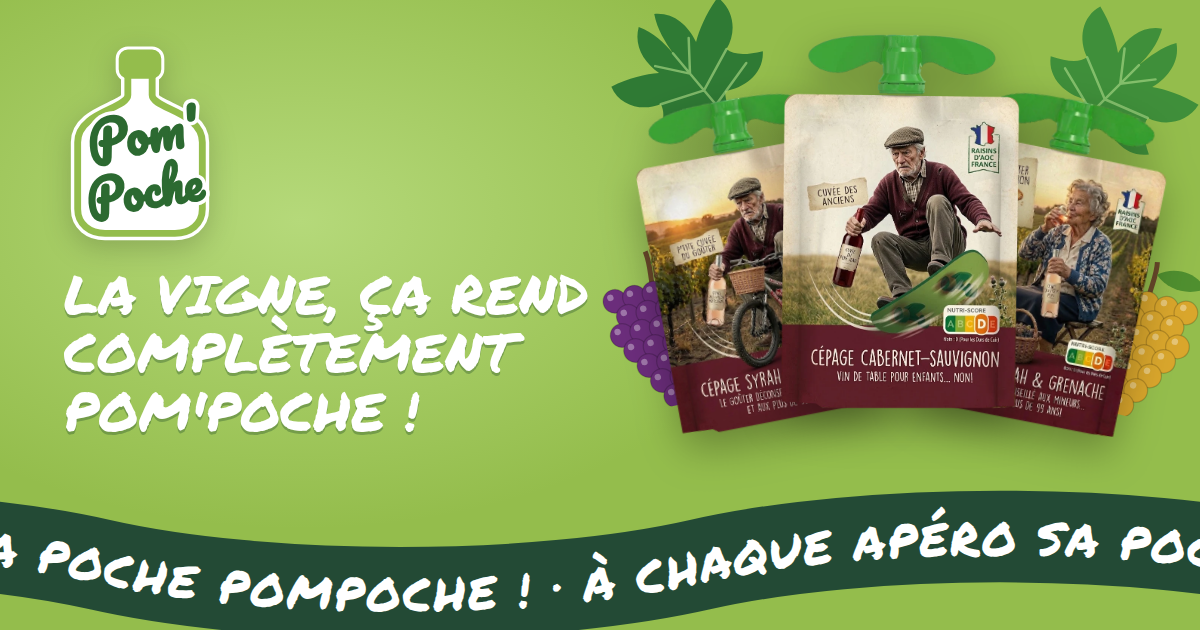
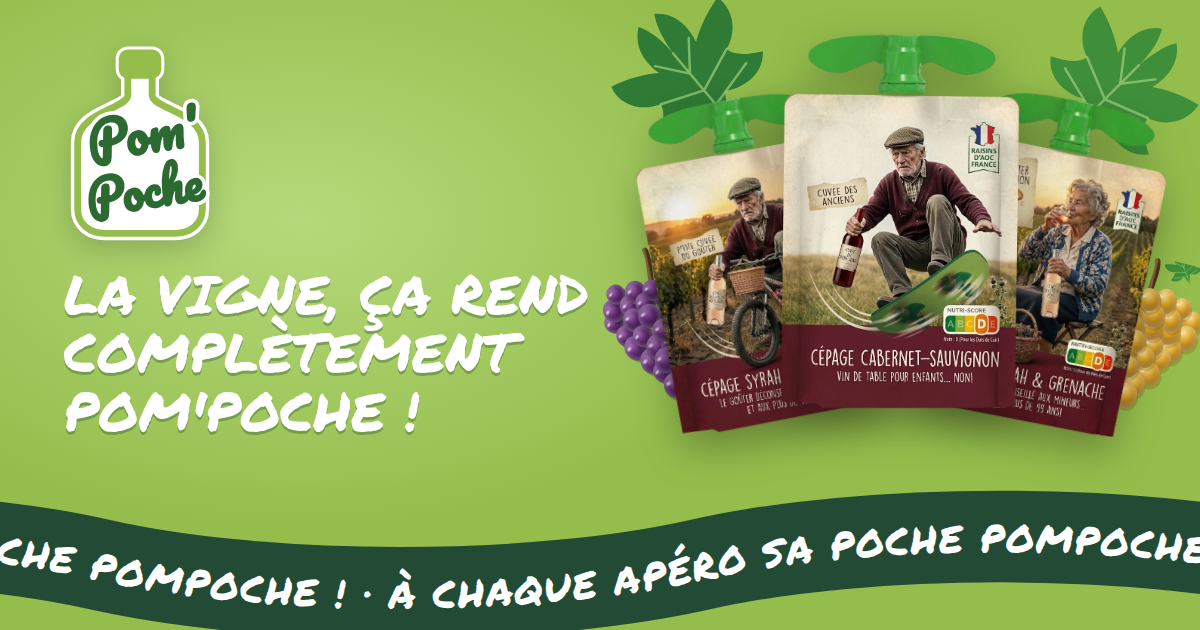
raisins

Changed region(s): [[0.0, 0.8143, 1.0, 0.9952], [0.925, 0.3921, 1.0, 0.6635], [0.4933, 0.4222, 0.5858, 0.6635]]

diff --git a/src/components/GrapeBunch.vue b/src/components/GrapeBunch.vue
@@ -1,30 +1,62 @@
 <template>
   <svg viewBox="0 0 100 130" aria-hidden="true">
-    <path d="M50 4 C52 14 50 22 50 32" stroke="#6b4a2b" stroke-width="4" fill="none" />
-    <path d="M52 14 C66 2 86 6 92 16 C80 24 64 24 52 14 Z" fill="#4f8f2f" />
-    <g :fill="fill" stroke="rgb(0 0 0 / 0.18)" stroke-width="1">
-      <circle v-for="(g, i) in GRAPES" :key="i" :cx="g.x" :cy="g.y" r="9.5" />
+    <defs>
+      <radialGradient :id="`${id}-body`" cx="0.36" cy="0.3" r="0.78">
+        <stop offset="0" :stop-color="tones.light" />
+        <stop offset="0.45" :stop-color="tones.base" />
+        <stop offset="1" :stop-color="tones.dark" />
+      </radialGradient>
+      <radialGradient :id="`${id}-shine`">
+        <stop offset="0" stop-color="#fff" stop-opacity="0.85" />
+        <stop offset="1" stop-color="#fff" stop-opacity="0" />
+      </radialGradient>
+      <radialGradient :id="`${id}-bloom`">
+        <stop offset="0.55" stop-color="#e8eef5" stop-opacity="0" />
+        <stop offset="1" stop-color="#e8eef5" stop-opacity="0.28" />
+      </radialGradient>
+      <linearGradient :id="`${id}-stem`" x1="0" x2="1">
+        <stop offset="0" stop-color="#8a6a3e" />
+        <stop offset="1" stop-color="#4f3519" />
+      </linearGradient>
+    </defs>
+    <g fill="none" :stroke="`url(#${id}-stem)`" stroke-linecap="round">
+      <path d="M50 3 C53 12 49 20 50 34" stroke-width="4.5" />
+      <path d="M50 30 C42 34 30 36 22 40 M50 30 C58 34 70 36 79 40" stroke-width="2.5" />
     </g>
-    <g fill="#fff" opacity="0.35">
-      <circle v-for="(g, i) in GRAPES" :key="i" :cx="g.x - 3" :cy="g.y - 3.5" r="2.6" />
+    <g transform="translate(51 0) rotate(-35) scale(0.3)">
+      <VineLeaf width="100" height="100" />
+    </g>
+    <g v-for="(berry, i) in berries" :key="i" :transform="berry.transform">
+      <ellipse cx="1.6" cy="2.6" :rx="berry.rx" :ry="berry.ry" :fill="tones.dark" opacity="0.3" />
+      <ellipse :rx="berry.rx" :ry="berry.ry" :fill="`url(#${id}-body)`" />
+      <ellipse :rx="berry.rx" :ry="berry.ry" :fill="`url(#${id}-bloom)`" />
+      <ellipse
+        :cx="-berry.rx * 0.38"
+        :cy="-berry.ry * 0.42"
+        :rx="berry.rx * 0.32"
+        :ry="berry.ry * 0.2"
+        transform="rotate(-30)"
+        :fill="`url(#${id}-shine)`"
+      />
     </g>
   </svg>
 </template>
 
 <script setup lang="ts">
-import { computed } from 'vue'
+import { computed, useId } from 'vue'
+import VineLeaf from '@/components/VineLeaf.vue'
 import { GRAPE_COLORS, type GrapeColor } from '@/data/grapes'
+import { bunchLayout } from '@/lib/grapes'
 
-const props = defineProps<{ color: GrapeColor }>()
+const props = defineProps<{ color: GrapeColor; seed?: number }>()
 
-const fill = computed(() => GRAPE_COLORS[props.color])
+const id = useId()
+const tones = computed(() => GRAPE_COLORS[props.color])
 
-const ROWS = [5, 4, 5, 4, 3, 2, 1]
-
-const GRAPES = ROWS.flatMap((count, row) =>
-  Array.from({ length: count }, (_, i) => ({
-    x: 50 + (i - (count - 1) / 2) * 16,
-    y: 38 + row * 14,
+const berries = computed(() =>
+  bunchLayout(props.seed ?? Object.keys(GRAPE_COLORS).indexOf(props.color)).map((berry) => ({
+    ...berry,
+    transform: `translate(${berry.x} ${berry.y}) rotate(${berry.rotate})`,
   })),
 )
 </script>

diff --git a/src/lib/grapes.ts b/src/lib/grapes.ts
@@ -1,0 +1,44 @@
+export type Berry = { x: number; y: number; rx: number; ry: number; rotate: number }
+
+const ROWS = [5, 6, 6, 5, 4, 3, 2, 1]
+const TOP = 34
+const ROW_GAP = 11.5
+const COL_GAP = 14.5
+const AXIS = 50
+
+// mulberry32: tiny seeded PRNG, so a bunch keeps its shape across renders.
+const random = (seed: number) => () => {
+  seed = (seed + 0x6d2b79f5) | 0
+  let t = Math.imul(seed ^ (seed >>> 15), seed | 1)
+  t ^= t + Math.imul(t ^ (t >>> 7), t | 61)
+  return ((t ^ (t >>> 14)) >>> 0) / 4294967296
+}
+
+/**
+ * Berries of a bunch in a 100x130 box, in paint order: the outer berries first,
+ * so the ones on the axis, closer to the viewer, overlap them.
+ */
+export const bunchLayout = (seed: number): Berry[] => {
+  const rand = random(seed)
+  const between = (min: number, max: number) => min + rand() * (max - min)
+
+  const berries = ROWS.flatMap((count, row) =>
+    Array.from({ length: count }, (_, i) => {
+      const edge = i === 0 || i === count - 1
+      if (edge && row > 1 && count > 2 && rand() < 0.3) return []
+      const x = AXIS + (i - (count - 1) / 2) * COL_GAP + between(-2.2, 2.2)
+      const rx = between(7.6, 9.2)
+      return [
+        {
+          x,
+          y: TOP + row * ROW_GAP + between(-2, 2),
+          rx,
+          ry: rx * between(1.05, 1.18),
+          rotate: (x - AXIS) * 0.4 + between(-12, 12),
+        },
+      ]
+    }),
+  ).flat()
+
+  return berries.sort((a, b) => Math.abs(b.x - AXIS) - Math.abs(a.x - AXIS))
+}

diff --git a/tests/unit/grapes.test.ts b/tests/unit/grapes.test.ts
@@ -1,0 +1,26 @@
+import { bunchLayout } from '@/lib/grapes'
+
+describe('bunchLayout', () => {
+  it('gives the same bunch for the same seed', () => {
+    expect(bunchLayout(3)).toEqual(bunchLayout(3))
+  })
+
+  it('varies the bunch with the seed', () => {
+    expect(bunchLayout(3)).not.toEqual(bunchLayout(4))
+  })
+
+  it('keeps every berry inside the 100x130 box', () => {
+    for (let seed = 0; seed < 50; seed++) {
+      for (const { x, y, rx, ry } of bunchLayout(seed)) {
+        expect(x - rx).toBeGreaterThan(0)
+        expect(x + rx).toBeLessThan(100)
+        expect(y + ry).toBeLessThan(130)
+      }
+    }
+  })
+
+  it('paints the outer berries first, so the central ones overlap them', () => {
+    const offsets = bunchLayout(1).map(({ x }) => Math.abs(x - 50))
+    expect(offsets).toEqual([...offsets].sort((a, b) => b - a))
+  })
+})

diff --git a/src/data/grapes.ts b/src/data/grapes.ts
@@ -1,10 +1,12 @@
 export type GrapeColor = 'purple' | 'green' | 'red' | 'black' | 'pink' | 'amber'
 
-export const GRAPE_COLORS: Record<GrapeColor, string> = {
-  purple: '#6b2d7b',
-  green: '#9cc23c',
-  red: '#b8283f',
-  black: '#3a2347',
-  pink: '#e17aa0',
-  amber: '#d9a62c',
+type Tones = { light: string; base: string; dark: string }
+
+export const GRAPE_COLORS: Record<GrapeColor, Tones> = {
+  purple: { light: '#a46bb0', base: '#5e2a6e', dark: '#2a0f33' },
+  green: { light: '#e4f29a', base: '#a8c847', dark: '#5b7a1c' },
+  red: { light: '#e2768a', base: '#a3243b', dark: '#4e0a18' },
+  black: { light: '#7a6488', base: '#33203f', dark: '#120817' },
+  pink: { light: '#f8c3d6', base: '#d9729a', dark: '#8a3256' },
+  amber: { light: '#fbe08c', base: '#d7a12a', dark: '#8a5a0c' },
 }

diff --git a/src/components/EngagementBurst.vue b/src/components/EngagementBurst.vue
@@ -16,7 +16,7 @@
     >
       <span v-if="item.kind === 'stick'" class="burst__stick" />
       <VineLeaf v-else-if="item.kind === 'leaf'" :dark="i % 2 === 0" />
-      <GrapeBunch v-else :color="COLORS[i]!" />
+      <GrapeBunch v-else :color="COLORS[i]!" :seed="i" />
     </div>
   </div>
 </template>

diff --git a/AGENTS.md b/AGENTS.md
@@ -69,7 +69,7 @@ src/
 │   ├── BrandLogo.vue         # Logo SVG : bouteille + lettrage « Pom'Poche »
 │   ├── YouTubePlayer.vue     # Lecteur YouTube auto, muet, en boucle, avec contrôles
 │   ├── SocialIcon.vue        # Réseaux parodiques (Picolagram, TikTrinque, FaceBouteille, BeRond) + YouTube
-│   ├── GrapeBunch.vue        # Grappe de raisin SVG
+│   ├── GrapeBunch.vue        # Grappe de raisin SVG (dégradés, pruine, reflets)
 │   ├── VineLeaf.vue          # Feuille de vigne SVG
 │   ├── DoodleArrow.vue       # Flèche dessinée à la main des légendes manuscrites
 │   ├── HealthNotice.vue      # Mention « L'abus d'alcool… » (sous les iconiques, pied de page)
@@ -79,10 +79,11 @@ src/
 │   ├── products.ts           # Les 3 iconiques (bulle, poche, grappes)
 │   ├── engagements.ts        # Les 3 engagements + composition de la gerbe
 │   ├── community.ts          # Réseaux, cartes du défilé, réservoir de Shorts, photos
-│   └── grapes.ts             # Palette des grappes, partagée
+│   └── grapes.ts             # Palette des grappes (clair, base, sombre), partagée
 ├── lib/                      # Logique pure, zéro import Vue (entièrement testée)
 │   ├── rotation.ts           # Mélange, répartition des Shorts et ordre des secours
 │   ├── youtube.ts            # URL d'intégration + messages de l'API iframe
+│   ├── grapes.ts             # Disposition des grains d'une grappe, pseudo-aléatoire
 │   └── scroll.ts             # scrollToTop (entête et pied de page)
 ├── App.vue                   # La page : enchaînement des sections
 ├── index.css                 # Import Tailwind, thème, styles des composants
